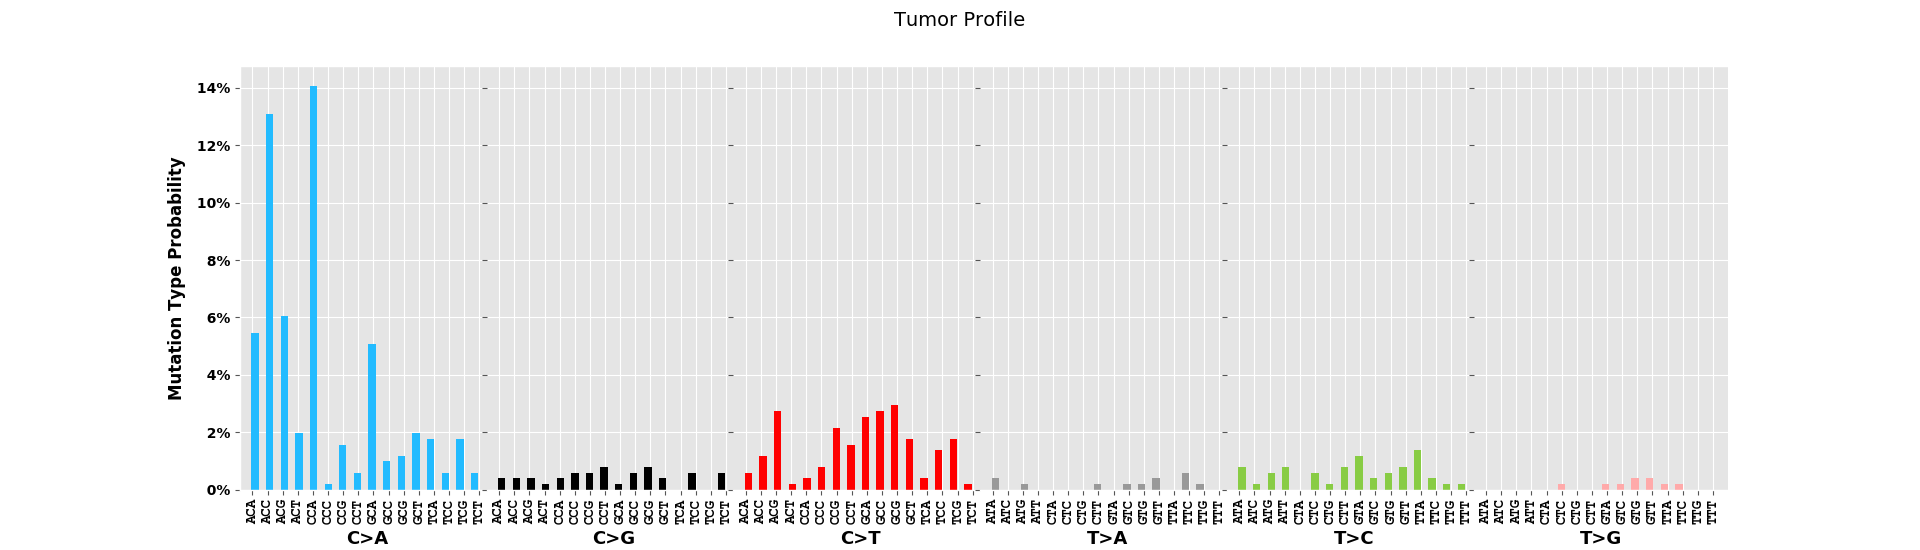
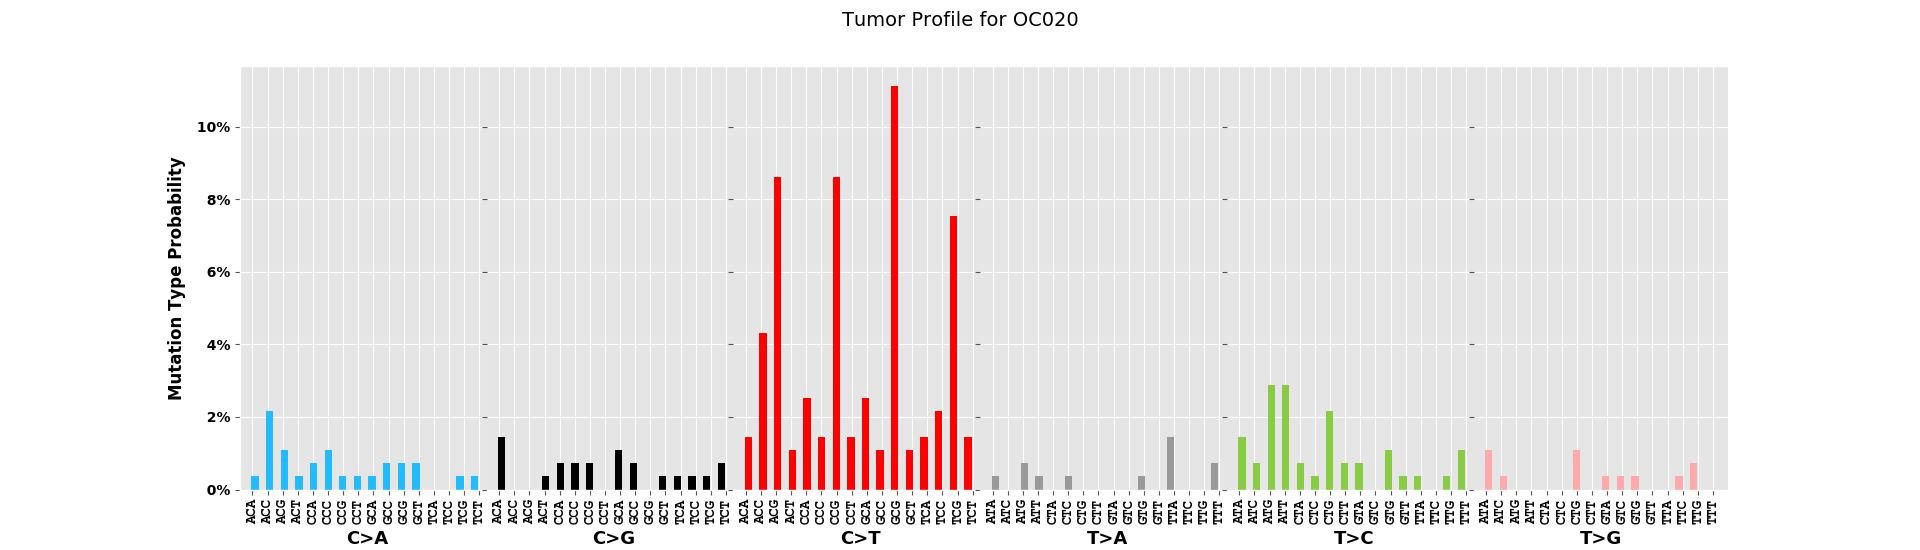
More documentation and final cleanup

diff --git a/deconstructSigs/deconstructSigs.py b/deconstructSigs/deconstructSigs.py
@@ -85,7 +85,15 @@ class DeconstructSigs:
                                 'Signature 21', 'Signature 22', 'Signature 23', 'Signature 24', 'Signature 25',
                                 'Signature 26', 'Signature 27', 'Signature 28', 'Signature 29', 'Signature 30']
 
-    def plot_signatures(self, weights, explanations=False):
+    def figures(self, weights, explanations=False):
+        self.plot_pie_chart(weights, explanations=explanations)
+        # Plot the sample profile and figure out what the optimal maximum y-value is for a good plot based on this
+        y_max = self.plot_sample_profile()
+        # Plot the reconstructed tumor profile using the weights provided
+        self.__plot_reconstructed_profile(weights, y_max=y_max)
+        plt.show()
+
+    def plot_pie_chart(self, weights, explanations=False):
         signature_weights = zip(self.signature_names, self.cosmic_signature_explanations.Association, weights)
         # Data to plot
         non_zero_weights = []
@@ -105,31 +113,32 @@ class DeconstructSigs:
         # Fill in the missing piece of the pie (due to removed below-threshold signatures)
         if 1 - sum(non_zero_weights) > 1e-3:
             difference = 1 - sum(non_zero_weights)
-            non_zero_labels.append('Other Signatures Below Significance Threshold, {}%'.format(round(difference*100, 2)))
+            percentage = round(difference*100, 2)
+            if explanations:
+                non_zero_labels.append('Other Signatures Below Significance Threshold, {}%'.format(percentage))
+            else:
+                non_zero_labels.append('Other')
             non_zero_weights.append(difference)
 
+        title = 'COSMIC Signature Weights'
+        if self.analysis_handle:
+            title = '{} for {}'.format(title, self.analysis_handle)
         if explanations:
             # Add a legend with explanations and percentages
             ax = fig.add_subplot(211)
             ax.axis("equal")
             pie = ax.pie(non_zero_weights, startangle=90)
-            ax.set_title('COSMIC Signature Weights')
+            ax.set_title(title)
             ax2 = fig.add_subplot(212)
             ax2.axis("off")
             ax2.legend(pie[0], non_zero_labels, loc="center")
         else:
             # Simply place the labels and percentages on the pie chart itself
-            plt.pie(non_zero_weights, labels=non_zero_labels, autopct='%1.0f%%')
-            plt.title('COSMIC Signature Weights')
+            plt.pie(non_zero_weights, labels=non_zero_labels, autopct='%1.0f%%', labeldistance=1.05)
+            plt.title(title)
             plt.axis('equal')
 
-        fig.canvas.set_window_title('COSMIC Signature Weights')
-
-        # Plot the sample profile and figure out what the optimal maximum y-value is for a good plot
-        y_max = self.plot_sample_profile()
-        # Plot the reconstructed tumor profile using the weights provided
-        self.__plot_reconstructed_profile(weights, y_max=y_max)
-        plt.show()
+        fig.canvas.set_window_title(title)
 
     def which_signatures(self, signatures_limit=None, associated=None, verbose=False):
         """Wrapper on __which_signatures function. Calls __which_signatures, then outputs a csv file with
@@ -262,7 +271,11 @@ class DeconstructSigs:
         total_counts = sum(flat_counts)
         fractions = [c/total_counts for c in flat_counts]
         y_max = max(fractions) * 1.05
-        self.__plot_counts(flat_bins, fractions, y_max=y_max, title='Tumor Profile')
+
+        title = 'Tumor Profile'
+        if self.analysis_handle:
+            title = '{} for {}'.format(title, self.analysis_handle)
+        self.__plot_counts(flat_bins, fractions, y_max=y_max, title=title)
         return y_max
 
     def __plot_reconstructed_profile(self, weights, y_max=1):
@@ -279,7 +292,10 @@ class DeconstructSigs:
         flat_subs, flat_bins, _ = self.__get_plottable_flat_bins_and_counts()
         for subs_type in flat_subs:
             reconstructed_tumor_counts.append(reconstructed_counts_dict[subs_type])
-        self.__plot_counts(flat_bins, reconstructed_tumor_counts, y_max=y_max, title='Reconstructed Tumor Profile')
+        title = 'Reconstructed Tumor Profile'
+        if self.analysis_handle:
+            title = '{} for {}'.format(title, self.analysis_handle)
+        self.__plot_counts(flat_bins, reconstructed_tumor_counts, y_max=y_max, title=title)
 
     def __plot_counts(self, flat_bins, flat_counts, title='Figure', y_max=1):
         """Plot subsitution fraction per mutation context"""
@@ -428,7 +444,7 @@ class DeconstructSigs:
         return trinuc_context
 
     def __get_trinuc_context_from_fasta(self, df_row):
-        """Fetch the context for a mutation given a row from a MAF file."""
+        """Fetch the trinucleotide context for a mutation given a row from a MAF file."""
         chromosome = df_row.Chromosome
         position = int(df_row.Start_position)
         bashcommand = 'samtools faidx {} {}:{}-{}'.format(self.hg19_fasta_path, chromosome, position-1, position+1)

diff --git a/README.md b/README.md
@@ -18,11 +18,11 @@ Click the green Clone or Download button above, copy the presented web URL, and 
 
 Parameters
 ----------
-The following parameters can be provided to an DeconstructSigs object:
+The following parameters can be provided to an DeconstructSigs object upon initialization:
 
-* `mafs_folder`: Optional path to a folder containing multiple MAF file. If provided, analysis will be conducted on all MAF files within the given folder.
+* `maf_file_path`: Optional path to a single MAF file. If provided, analysis will be conducted on this file. Either this parameter or mafs_folder must be supplied.
 
-* `maf_file_path`: Optional path to a single MAF file. If provided, analysis will be conducted on this file.
+* `mafs_folder`: Optional path to a folder containing multiple MAF file. If provided, analysis will be conducted on all MAF files within the given folder. Either this parameter or maf_file_path must be supplied.
 
 * `context_counts`: Optional. This argument can be used to provide a dictionary of context counts rather than a MAF file. Keys are of the form 'A[C>A]A', 'A[C>A]C', etc., and values are integer counts.
 
@@ -35,13 +35,20 @@ The following parameters can be provided to an DeconstructSigs object:
 * `hg19_fasta_path`: Optional. If provided, analysis will determine trinucleotide context by using samtools to search within provided fasta file for each SNP. Requires local installation of samtools, as samtools is run through subprocess. If not provided, DeconstructSigs assumes that the MAF file contains a ref_context column.
 
 
-The which_signatures method takes a few parameters as well:
+The which_signatures() method outputs the vector of weights calculated for each signature. It takes a few parameters as well:
 
 * `signatures_limit`: Optional, default None. If provided, number of signatures allowed to contribute to solution is capped at signatures_limit. Otherwise up to 30 COSMIC signatures could potentially be used.
 
 * `associated`: Optional, default None, list of integer indices of COSMIC signatures in range 0-29. Useful when it is known that only a pre-determined subset of COSMIC signatures should be tried.
 
 * `verbose`: Optional, default False. If True then logs describing weight updates on each iteration will be output to stdout.
+
+
+Finally, to generate figures, use the figures() method, with the following parameters:
+
+* `weights`: Required. The vector of weights generated by the which_signatures() method.
+
+* `explanations`: Optional, default is False. If explanations is set to True, the signatures pie chart will include curated information about each COSMIC signature selected directly on the pie chart in the legend.
 
 Usage
 -----
@@ -70,6 +77,8 @@ Output using plot_signatures(weights, explanations=True):
 ![Reconstructed Tumor Profile](deconstructSigs/example_plots/reconstructed_tumor_profile.png)
 * COSMIC signatures breakdown
 ![Cosmic Signature Pie Chart](deconstructSigs/example_plots/cosmic_signature_pie.png)
+* COSMIC signatures breakdown with explanations
+![Cosmic Signature Pie Chart](deconstructSigs/example_plots/cosmic_signature_pie_with_explanations.png)
 
 Data Sources
 ------------
